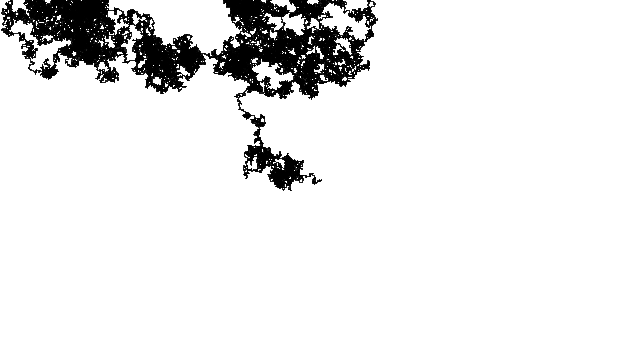
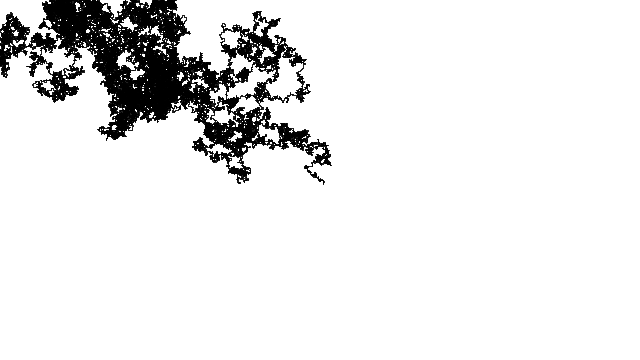
pointillism example

Changed region(s): [[0.0, 0.0, 0.5938, 0.55]]

diff --git a/week9/12_twitter_replier_image/bot.js b/week9/12_twitter_replier_image/bot.js
@@ -6,32 +6,22 @@ var config = require('./config.js');
 // Making a Twit object for connection to the API
 var T = new Twit(config);
 
-// This is how I would do it manually, if I were doing it manually
-// var T = new Twit({
-//   consumer_key:         '', 
-//   consumer_secret:      '',
-//   access_token:         '',
-//   access_token_secret:  ''
-// });
-
+// File system
 var fs = require('fs');
-var stream = T.stream('user');
+// Request for downloading files
 var request = require('request');
-var lwip = require('lwip');
 
-console.log("image bot starting");
+// Require child_process for triggering script for Processing
+var exec = require('child_process').exec;
+
+// Start a streem to listen to tweets
+var stream = T.stream('user');
 stream.on('tweet', tweetEvent);
 
-function tweeted(err, success) {
-  if (err !== undefined) {
-    console.log(err);
-  } else {
-    console.log('Tweeted: ' + JSON.stringify(success, null, 2));
-  }
-}
-
+// Ok a tweet has happend
 function tweetEvent(tweet) {
-
+  
+  // What's the deal with this tweet?
   var reply_to = tweet.in_reply_to_screen_name;
   var name = tweet.user.screen_name;
   var txt = tweet.text;
@@ -39,82 +29,80 @@ function tweetEvent(tweet) {
 
   console.log(reply_to + ' ' + name + ' ' + txt + ' ' + media);
 
+  // Is it a reply to me?
   if (reply_to === 'a2zitp') {
-
-
+    // If there's no image let the tweeter know
     if (media === undefined) {
       var reply = '@' + name + ' I need an image to do something!';
       T.post('statuses/update', { status: reply }, tweeted);
-      console.log("replying: " + reply);
+    // If there is an image, download it!
     } else if (media.length > 0) {
       var img = media[0].media_url;
-      console.log(img);
       downloadFile(img, 'media');
     }
-
-    // If we wanted to write a file out
-    // var json = JSON.stringify(tweet,null,2);
-    // fs.writeFile("tweet.json", json, output);
-
-    // function output(err) {
-    //   if (err) {
-    //     throw err;
-    //   }
-    //   console.log("file saved");
-    // }; 
   }
 
+  // Deal with downloading
+  function downloadFile(url, filename) {
+
+    console.log('Attemping to downlowd url: ' + url + ' to ' + filename);
+    // Make the request
+    request.head(url, downloaded);
+
+    // Here's the callback for when it is done
+    function downloaded (err, res, body) {
+
+      // Look at what it is
+      var type = res.headers['content-type'];
+      
+      // Figure out what file extension it should have
+      var i = type.indexOf('/');
+      var ext = type.substring(i+1, type.length);
+      filename = filename + '.' + ext;
+
+      // Now save it to disk with that filename
+      // Put it in the Processing folder
+      request(url).pipe(fs.createWriteStream('pointillize/'+filename)).on('close', filed);
+
+      // Ok it's saved to disk
+      function filed() {
+
+        // Here is the command to run the Processing sketch
+        // You need to have Processing command line installed
+        // See: https://github.com/processing/processing/wiki/Command-Line
+        var cmd = 'processing-java --sketch=`pwd`/pointillize/ --run ' + filename;
+        exec(cmd, processing);
+
+        // Callback for command line process
+        function processing(error, stdout, stderr) {
+
+          // I could do some error checking here
+          console.log(stdout);
+
+          // Read the file made by Processing
+          var b64content = fs.readFileSync('pointillize/output.png', { encoding: 'base64' })
+
+          // Upload the media
+          T.post('media/upload', { media_data: b64content }, uploaded);
+
+          function uploaded(err, data, response) {
+            // Now we can reference the media and post a tweet 
+            // with the media attached
+            var mediaIdStr = data.media_id_string;
+            var params = { status: '.@' + name + ' #pointillize', media_ids: [mediaIdStr] }
+            // Post tweet
+            T.post('statuses/update', params, tweeted);
+          };
+        }
+      }
+    }
+  }
 }
 
-function downloadFile(url, filename) {
-  console.log('Attemping to downlowd url: ' + url + ' to ' + filename);
-
-  request.head(url, downloaded);
-
-  function downloaded (err, res, body) {
-    var type = res.headers['content-type'];
-    console.log('content-type:', type);
-    console.log('content-length:', res.headers['content-length']);
-
-    var i = type.indexOf('/');
-    var ext = type.substring(i+1, type.length);
-    filename = filename + '.' + ext;
-
-    request(url).pipe(fs.createWriteStream(filename)).on('close', filed);
-  };
-
-  function filed() {
-    console.log(url + ' downloaded to ' + filename);
-    lwip.open(filename, processImage)
+function tweeted(err, success) {
+  if (err !== undefined) {
+    console.log(err);
+  } else {
+    console.log('Tweeted: ' + success.text);
   }
-
-  function processImage(err, image) {
-    //image.rotate(45);
-    image.writeFile('output.jpg', tweetBack)
-  }
-
-  function tweetBack(err) {
-    if (err) {
-      console.log(err);
-    }
-    console.log('blurred!');
-
-    var b64content = fs.readFileSync('output.jpg', { encoding: 'base64' });
-
-    T.post('media/upload', { media_data: b64content }, uploaded);
-
-    function uploaded(err, data, response) {
-
-      // now we can reference the media and post a tweet (media will attach to the tweet)
-      var mediaIdStr = data.media_id_string
-      var params = { status: '#blurred', media_ids: [mediaIdStr] }
-
-      T.post('statuses/update', params, tweeted);
-
-      function tweeted(err, data, response) {
-        console.log(data)
-      }
-    };
-  }
-
 }
